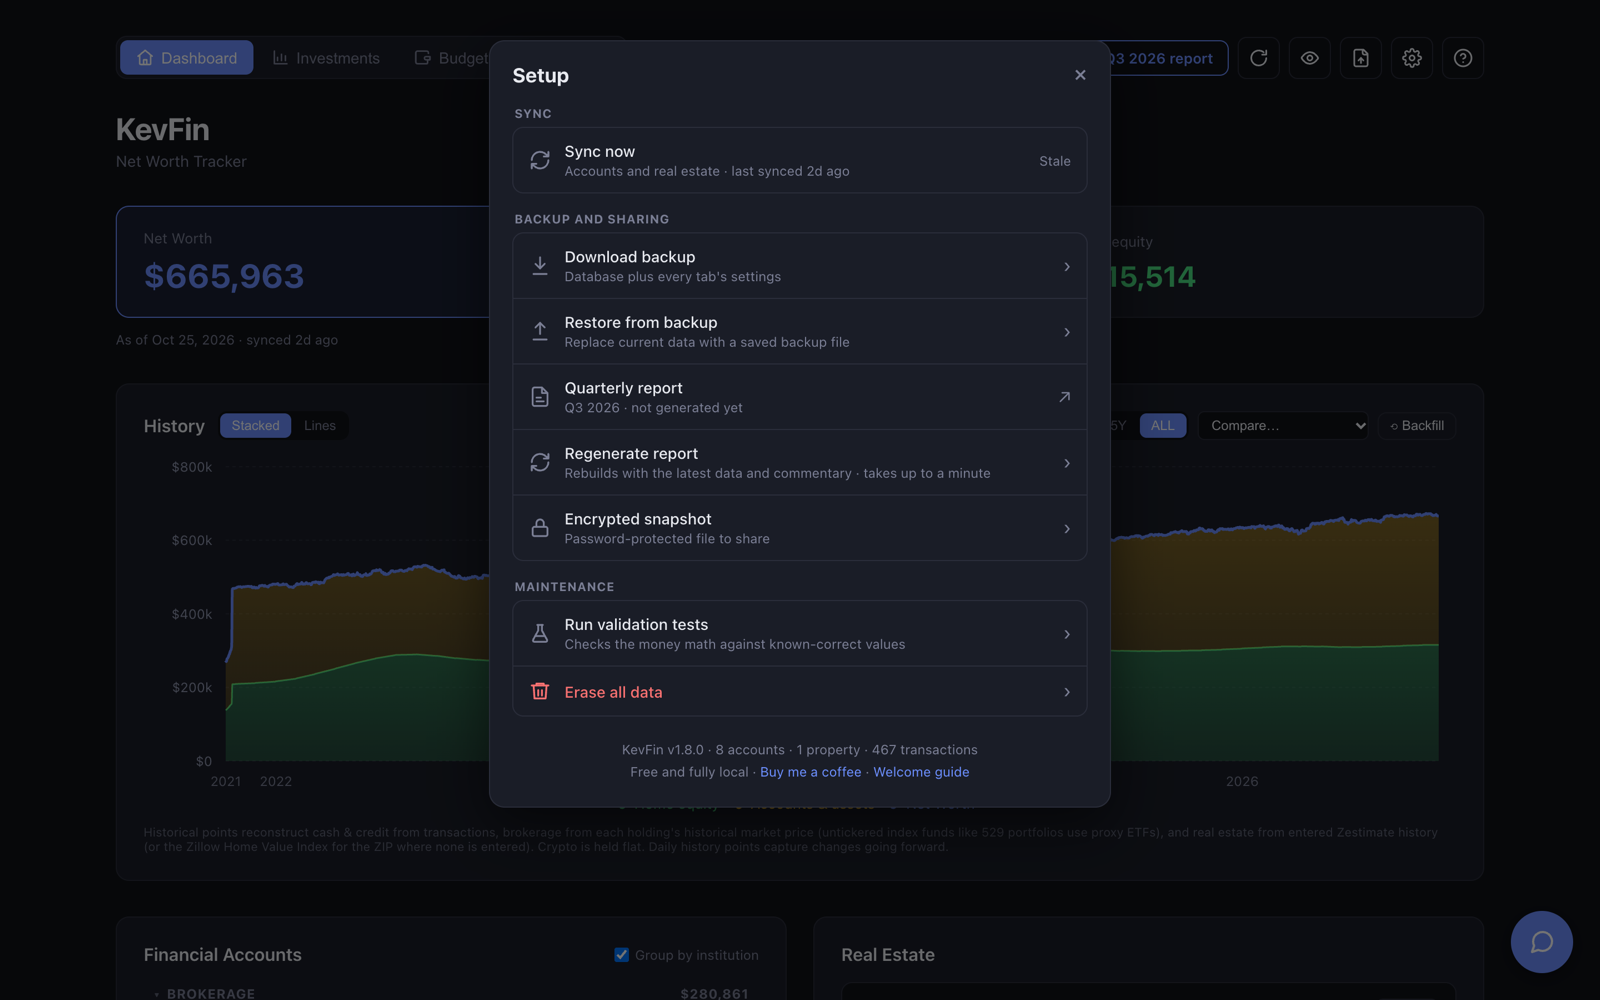
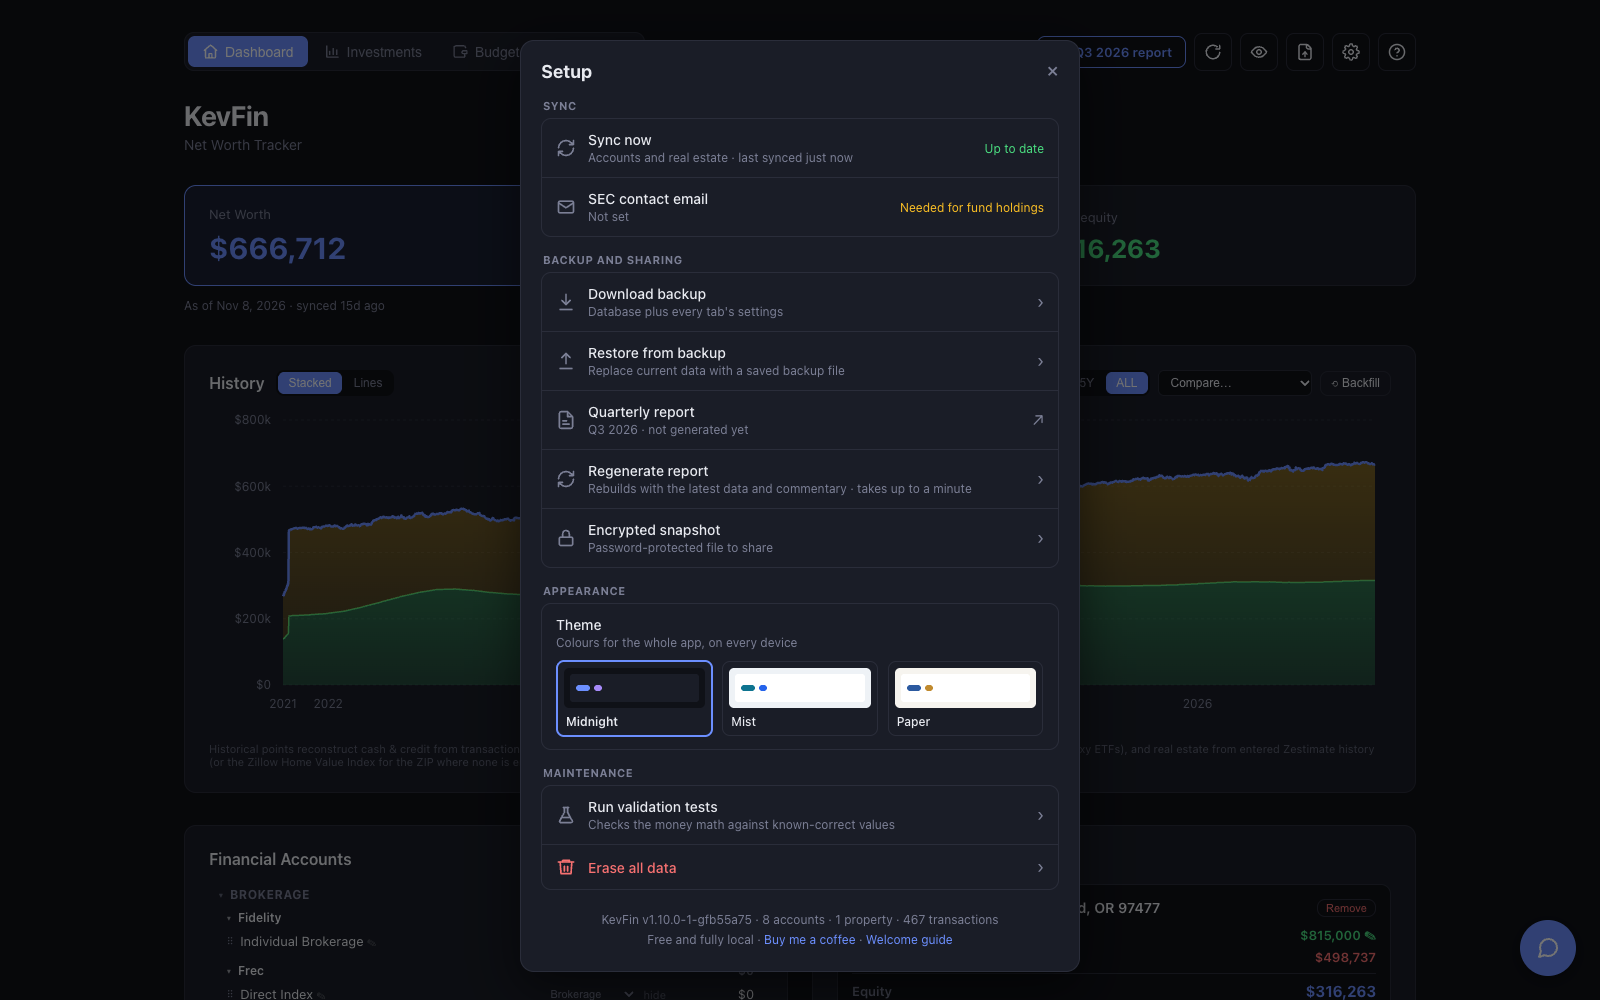
README: add theme screenshots and Trump Account tip (#30)
- New "Pick a theme" section with Midnight / Mist / Paper dashboards side
  by side, and where to find the picker (gear → Appearance).
- "Add anything else" explains how to track a child's Trump Account as a
  manual asset so the forecast treats it as education money.
- Refresh setup.png: it showed v1.8.0 and predated the Appearance section.

Screenshots are from the demo database (server/scripts/seed-demo.ts), never
real data.

diff --git a/README.md b/README.md
@@ -113,6 +113,12 @@ works out your equity.
 Savings bonds, cash, a car, a private investment: add it under **Manual Assets**
 at the bottom of the Dashboard.
 
+**Have a child's Trump Account?** No bank-linking service can read these yet, so
+add it here as a manual asset with "Trump Account" in the name and update the
+balance from the official app now and then. The retirement forecast then treats
+it as your child's education money instead of counting it toward your own
+retirement.
+
 ---
 
 ## What you can do
@@ -163,6 +169,20 @@ Showing someone your screen? Click the **👁 eye** button at the top and every
 dollar amount is hidden.
 
 ![Privacy mode](docs/screenshots/privacy.png)
+
+### Pick a theme
+
+Click the **⚙ gear** (top-right) and choose a theme under **Appearance**:
+**Midnight** (the original dark look), **Mist** (cool light gray) or **Paper**
+(warm off-white). It changes instantly and follows you to every device.
+
+<table>
+  <tr>
+    <td align="center"><img src="docs/screenshots/theme-midnight.png" alt="Midnight theme" width="260"><br>Midnight</td>
+    <td align="center"><img src="docs/screenshots/theme-mist.png" alt="Mist theme" width="260"><br>Mist</td>
+    <td align="center"><img src="docs/screenshots/theme-paper.png" alt="Paper theme" width="260"><br>Paper</td>
+  </tr>
+</table>
 
 ### Use it on your phone
 
